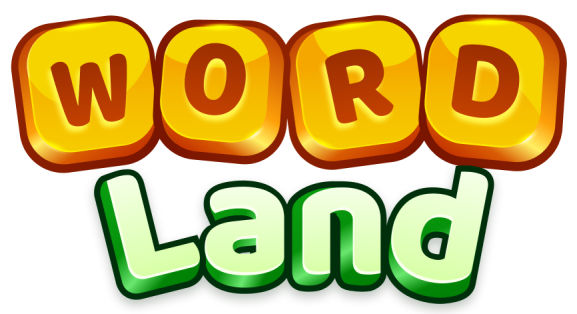
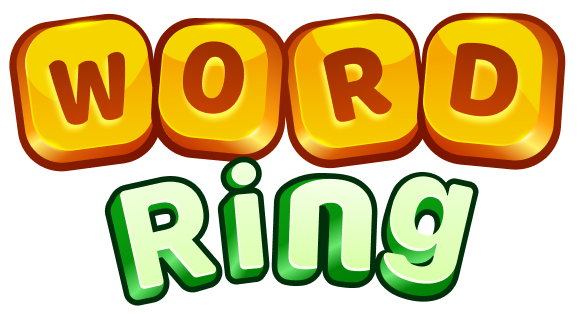
1.0.0

diff --git a/lib/main.dart b/lib/main.dart
@@ -38,7 +38,7 @@ class MyApp extends StatelessWidget {
     return ScreenUtilInit(
       designSize: const Size(360, 760),
       builder: (context,child)=>GetMaterialApp(
-        title: 'WordLand',
+        title: 'WordRing',
         debugShowCheckedModeBanner: false,
         enableLog: true,
         initialRoute: RoutersData.launch,
